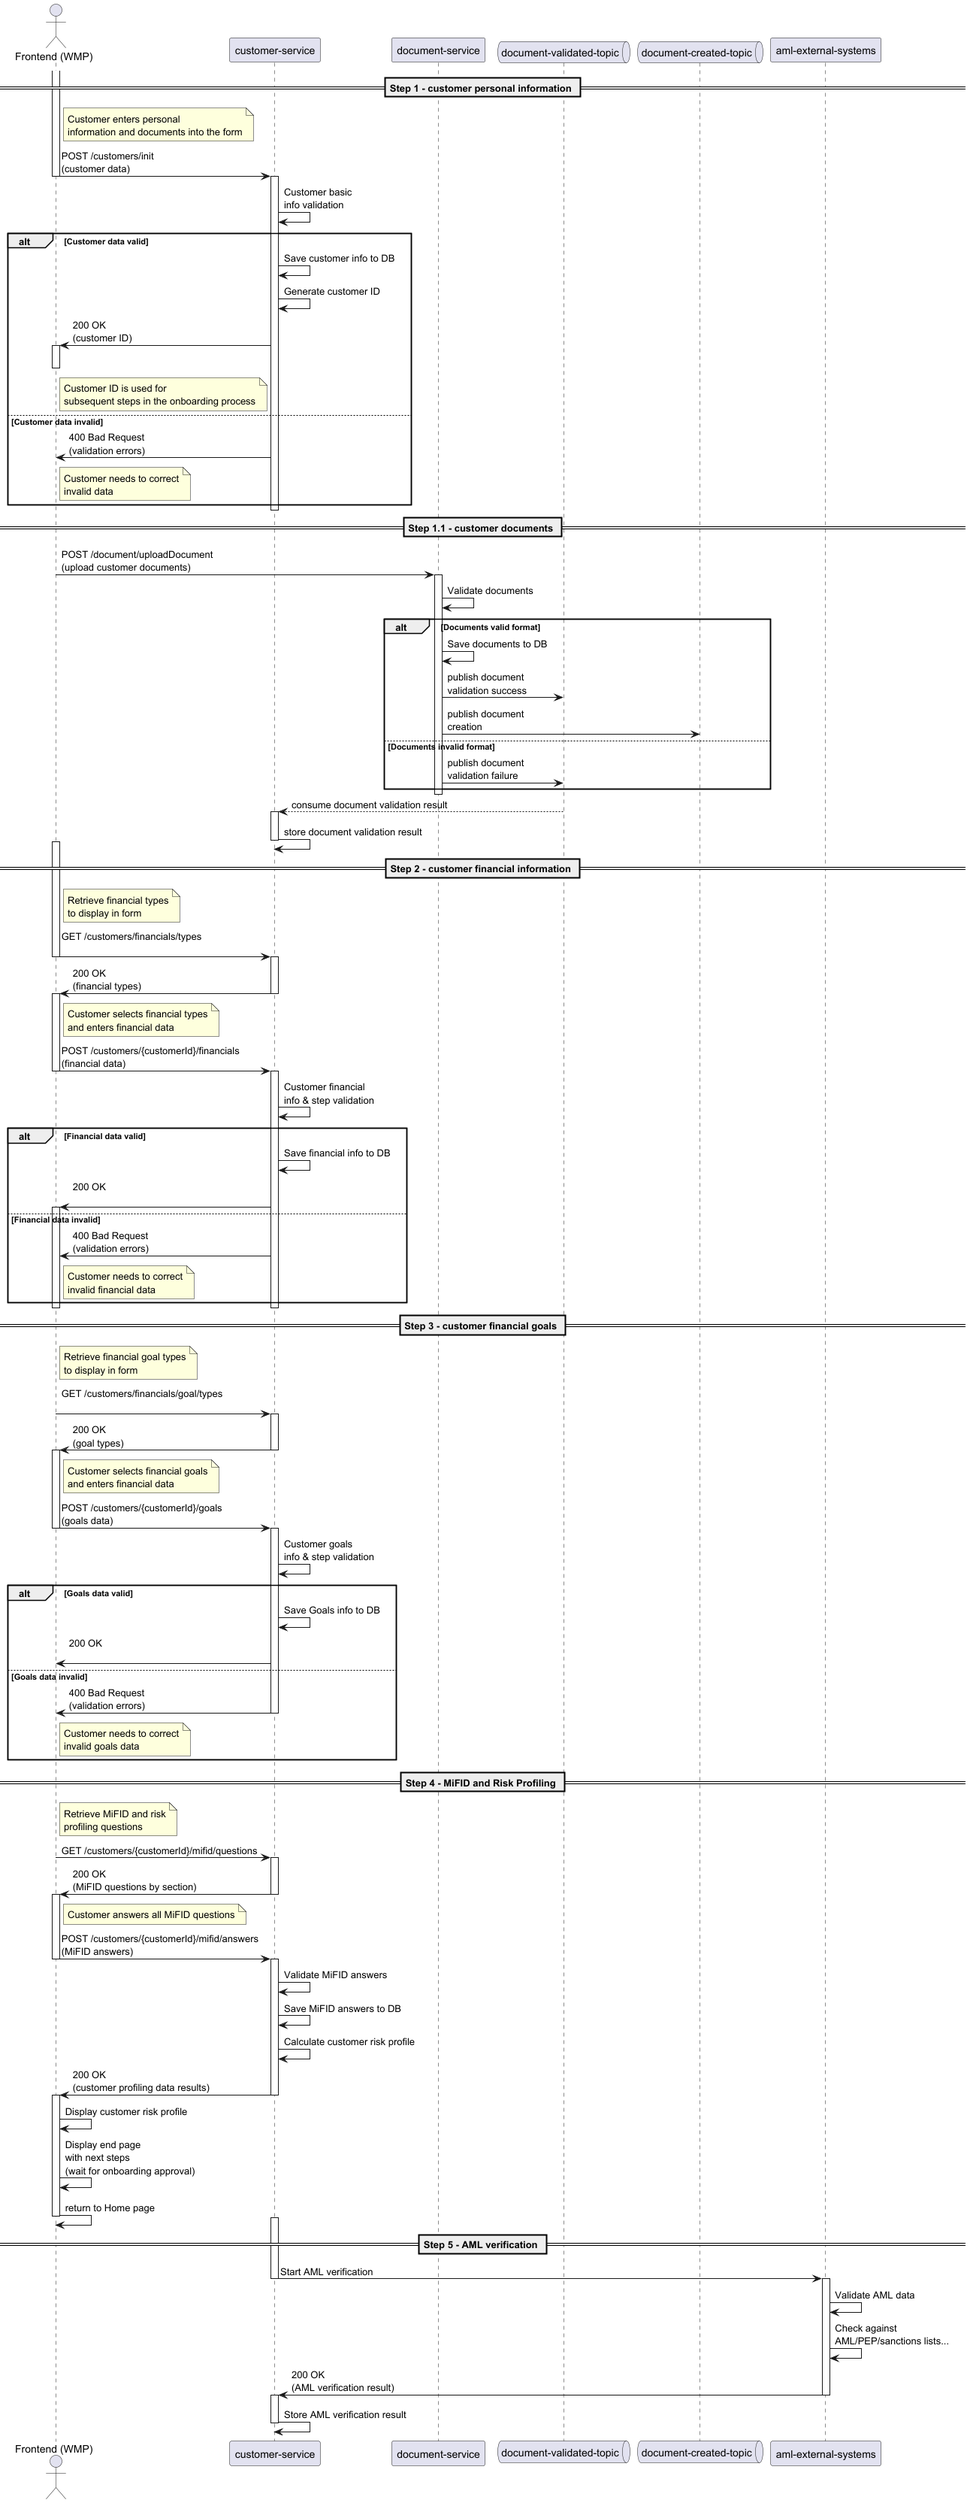
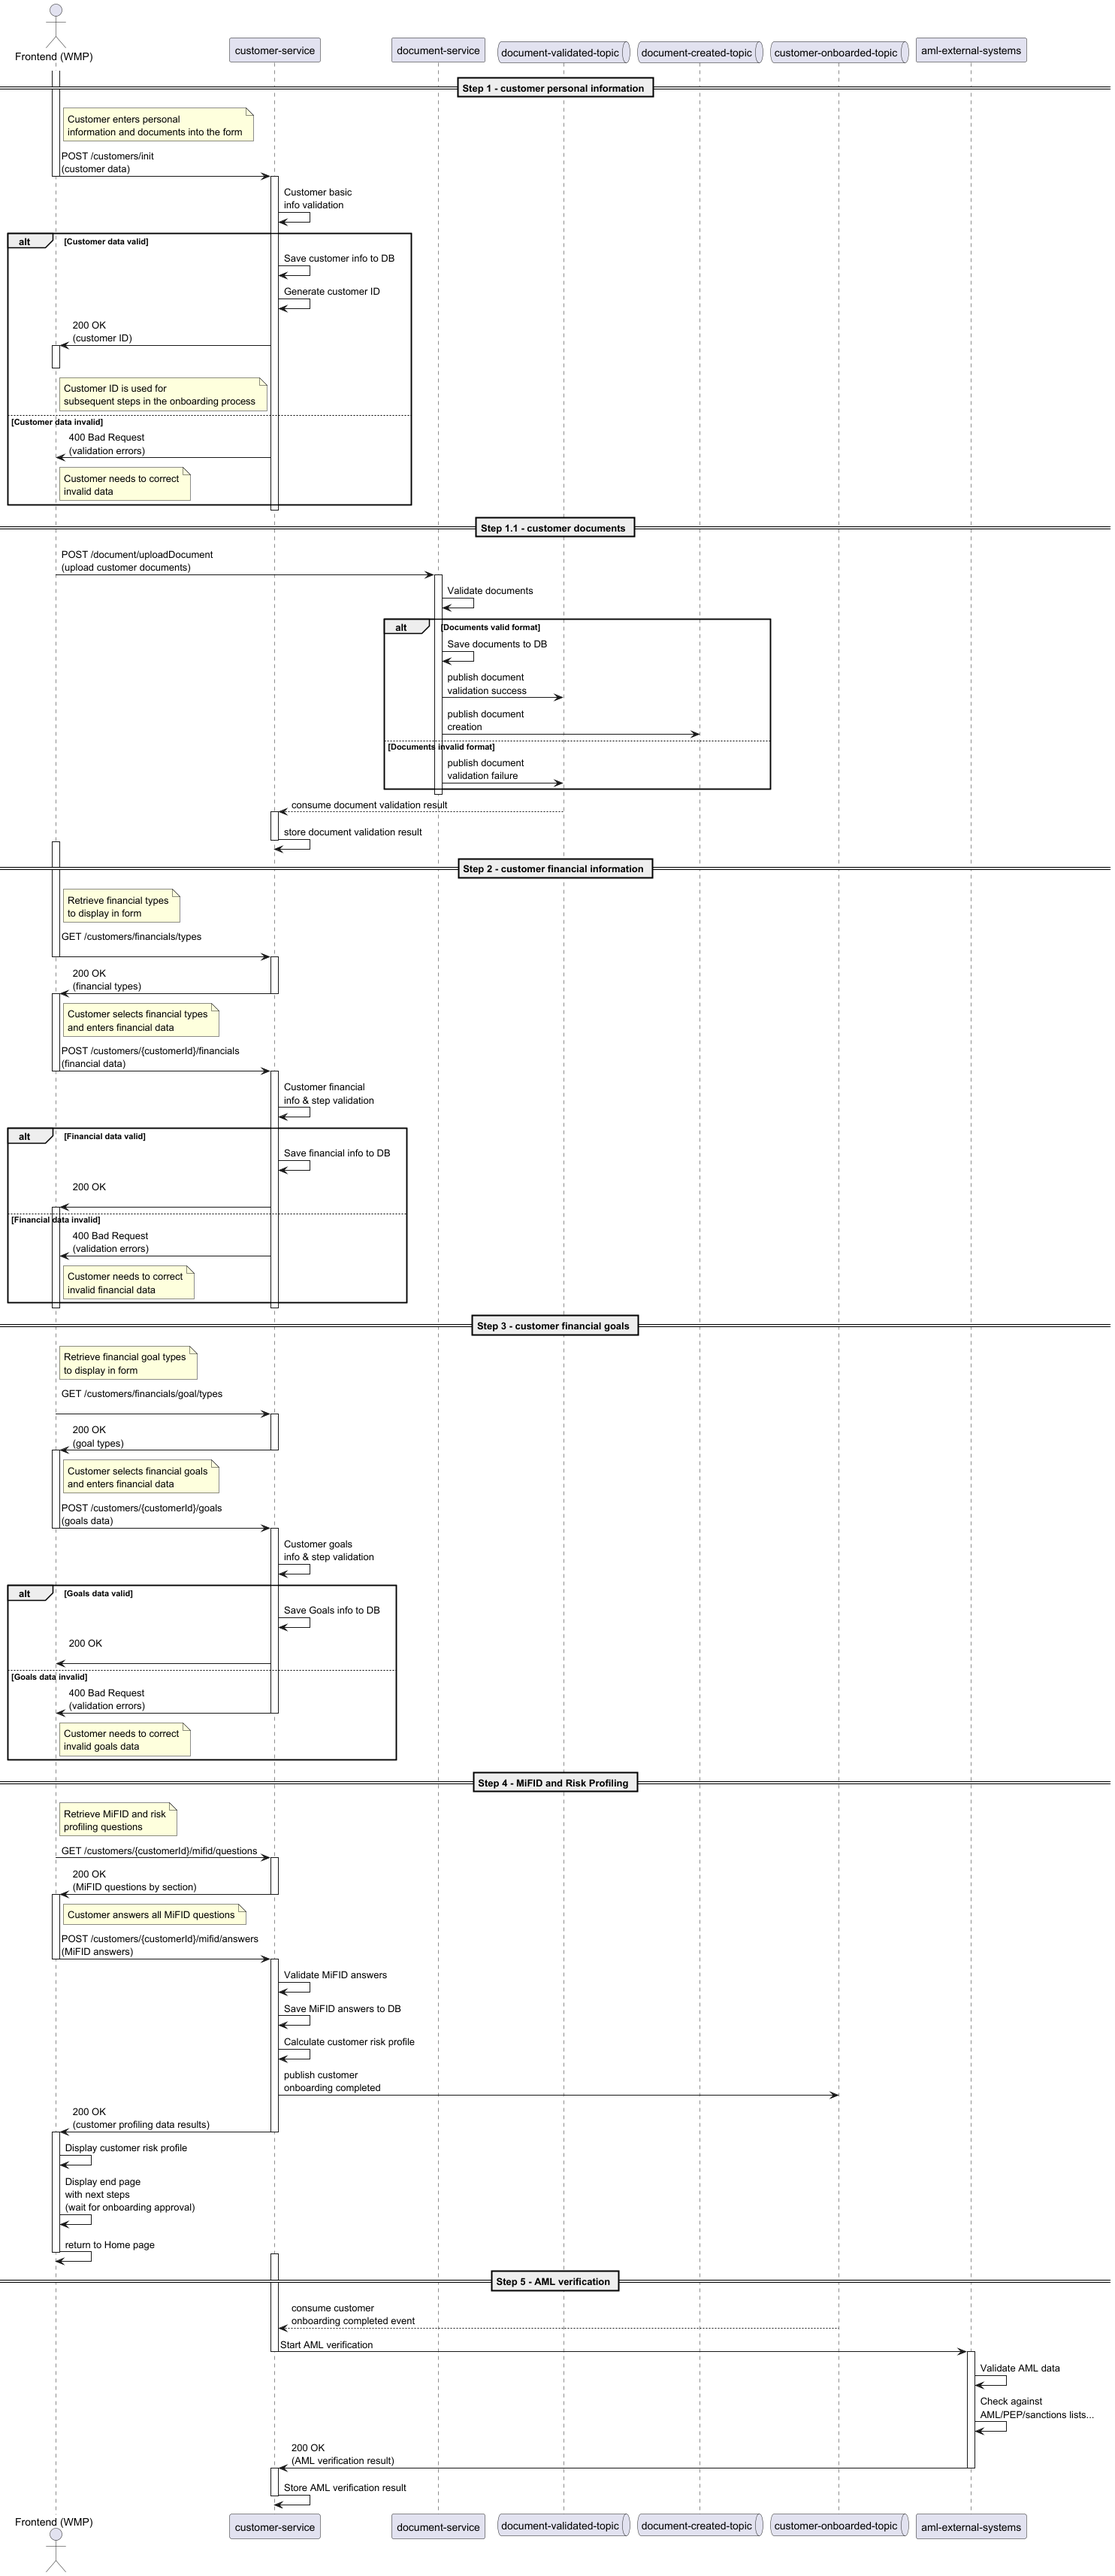
Updated AML step for customer onboarding process, implement customer onboarding event handling and related Kafka configurations, removed ConditionalOnProperty on publishers, update properties accordingly

diff --git a/business-modules/customer-service/customer-core/src/main/java/raff/stein/customer/service/mifid/workflow/impl/SubmitMifidWorkflow.java b/business-modules/customer-service/customer-core/src/main/java/raff/stein/customer/service/mifid/workflow/impl/SubmitMifidWorkflow.java
@@ -2,6 +2,7 @@ package raff.stein.customer.service.mifid.workflow.impl;
 
 import lombok.RequiredArgsConstructor;
 import org.springframework.stereotype.Component;
+import raff.stein.customer.event.producer.CustomerOnboardedEventPublisher;
 import raff.stein.customer.model.bo.mifid.filling.MifidFilling;
 import raff.stein.customer.model.entity.customer.enumeration.OnboardingStep;
 import raff.stein.customer.repository.mifid.MifidQuestionnaireRepository;
@@ -24,6 +25,7 @@ public class SubmitMifidWorkflow implements MifidWorkflow {
     private final SubmitMifidStateHandler submitMifidStateHandler;
     private final MifidQuestionnaireRepository mifidQuestionnaireRepository;
     private final OnboardingService onboardingService;
+    private final CustomerOnboardedEventPublisher customerOnboardedEventPublisher;
 
 
     @Override
@@ -50,8 +52,9 @@ public class SubmitMifidWorkflow implements MifidWorkflow {
     @Override
     public List<MifidWorkflowStep> postHooks() {
         return List.of(
-                calculateNextStatus(),
-                updateOnboardingStatus());
+                calculateNextStatus(),              // set and save status on MifidFilling
+                updateOnboardingStatus(),           // update onboarding step status
+                publishCustomerOnboardedEvent());
     }
 
 
@@ -102,6 +105,15 @@ public class SubmitMifidWorkflow implements MifidWorkflow {
                                     "mifidStatus", context.getResultBo().getStatus().name()
                             ))
                             .build());
+            return context;
+        };
+    }
+
+    private MifidWorkflowStep publishCustomerOnboardedEvent() {
+        return context -> {
+            customerOnboardedEventPublisher.publishCustomerOnboardedEvent(
+                    context.getResultBo(),
+                    context.getCustomerId());
             return context;
         };
     }

diff --git a/business-modules/customer-service/customer-core/src/main/java/raff/stein/customer/event/producer/CustomerOnboardedEventPublisher.java b/business-modules/customer-service/customer-core/src/main/java/raff/stein/customer/event/producer/CustomerOnboardedEventPublisher.java
@@ -1,0 +1,36 @@
+package raff.stein.customer.event.producer;
+
+import lombok.extern.slf4j.Slf4j;
+import org.openapitools.model.CustomerOnboardedEvent;
+import org.springframework.beans.factory.annotation.Value;
+import org.springframework.stereotype.Component;
+import raff.stein.customer.event.producer.mapper.MifidFillingToCustomerOnboardedMapper;
+import raff.stein.customer.model.bo.mifid.filling.MifidFilling;
+import raff.stein.platformcore.messaging.publisher.WMPBaseEventPublisher;
+import raff.stein.platformcore.messaging.publisher.model.EventData;
+
+import java.util.UUID;
+
+@Slf4j
+@Component
+public class CustomerOnboardedEventPublisher {
+
+    private final WMPBaseEventPublisher wmpBaseEventPublisher;
+    private final String customerOnboardedTopic;
+    private static final MifidFillingToCustomerOnboardedMapper documentToDocumentUploadedEventMapper = MifidFillingToCustomerOnboardedMapper.MAPPER;
+
+    public CustomerOnboardedEventPublisher(
+            WMPBaseEventPublisher wmpBaseEventPublisher,
+            @Value("${kafka.topics.customer-service.customer-onboarded.name}") String customerOnboardedTopic) {
+        this.wmpBaseEventPublisher = wmpBaseEventPublisher;
+        this.customerOnboardedTopic = customerOnboardedTopic;
+    }
+
+    public void publishCustomerOnboardedEvent(MifidFilling mifidFilling, UUID customerId) {
+        CustomerOnboardedEvent documentUploadedEvent =
+                documentToDocumentUploadedEventMapper.toCustomerOnboardedEvent(mifidFilling, customerId);
+        EventData eventData = new EventData(documentUploadedEvent);
+        wmpBaseEventPublisher.publishCloudEvent(customerOnboardedTopic, eventData);
+    }
+
+}

diff --git a/business-modules/customer-service/customer-core/src/main/java/raff/stein/customer/event/consumer/CustomerOnboardedEventConsumer.java b/business-modules/customer-service/customer-core/src/main/java/raff/stein/customer/event/consumer/CustomerOnboardedEventConsumer.java
@@ -1,0 +1,35 @@
+package raff.stein.customer.event.consumer;
+
+import io.cloudevents.CloudEvent;
+import lombok.RequiredArgsConstructor;
+import lombok.extern.slf4j.Slf4j;
+import org.openapitools.model.CustomerOnboardedEvent;
+import org.springframework.boot.autoconfigure.condition.ConditionalOnProperty;
+import org.springframework.kafka.annotation.KafkaListener;
+import org.springframework.stereotype.Component;
+import raff.stein.platformcore.messaging.consumer.WMPBaseEventConsumer;
+
+@Slf4j
+@Component
+@RequiredArgsConstructor
+@ConditionalOnProperty(name = "kafka.topics.customer-service.customer-onboarded.consuming-enabled", havingValue = "true")
+public class CustomerOnboardedEventConsumer extends WMPBaseEventConsumer {
+
+
+    @KafkaListener(
+            topics = "${kafka.topics.customer-service.customer-onboarded.name}",
+            containerFactory = "kafkaListenerFactory",
+            groupId = "${kafka.topics.customer-service.customer-onboarded.groupId}")
+    public void consume(CloudEvent cloudEvent) {
+        withEventPayload(
+                cloudEvent,
+                CustomerOnboardedEvent.class,
+                payload -> processFileValidatedEvent(payload, cloudEvent.getId()));
+    }
+
+    private void processFileValidatedEvent(CustomerOnboardedEvent customerOnboardedEvent, String eventId) {
+        // TODO: trigger AML verification
+
+    }
+
+}

diff --git a/business-modules/customer-service/customer-core/src/main/java/raff/stein/customer/event/consumer/FileValidatedEventConsumer.java b/business-modules/customer-service/customer-core/src/main/java/raff/stein/customer/event/consumer/FileValidatedEventConsumer.java
@@ -19,16 +19,16 @@ import java.util.UUID;
 @Slf4j
 @Component
 @RequiredArgsConstructor
-@ConditionalOnProperty(name = "kafka.topics.document-service.file-validated.enabled", havingValue = "true")
+@ConditionalOnProperty(name = "kafka.topics.customer-service.document.file-validated.enabled", havingValue = "true")
 public class FileValidatedEventConsumer extends WMPBaseEventConsumer {
 
     private final CustomerRepository customerRepository;
     private final OnboardingService onboardingService;
 
     @KafkaListener(
-            topics = "${kafka.topics.document-service.file-validated.name}",
+            topics = "${kafka.topics.customer-service.document.file-validated.name}",
             containerFactory = "kafkaListenerFactory",
-            groupId = "${kafka.topics.document-service.file-validated.groupId}")
+            groupId = "${kafka.topics.customer-service.document.file-validated.groupId}")
     public void consume(CloudEvent cloudEvent) {
         withEventPayload(
                 cloudEvent,

diff --git a/business-modules/customer-service/customer-core/src/main/java/raff/stein/customer/event/producer/mapper/MifidFillingToCustomerOnboardedMapper.java b/business-modules/customer-service/customer-core/src/main/java/raff/stein/customer/event/producer/mapper/MifidFillingToCustomerOnboardedMapper.java
@@ -1,0 +1,20 @@
+package raff.stein.customer.event.producer.mapper;
+
+import org.mapstruct.Mapper;
+import org.mapstruct.factory.Mappers;
+import org.openapitools.model.CustomerOnboardedEvent;
+import org.openapitools.model.DocumentUploadedEvent;
+import raff.stein.customer.event.mapper.config.CustomerEventMapperConfig;
+import raff.stein.customer.model.bo.mifid.filling.MifidFilling;
+
+import java.util.UUID;
+
+@Mapper(config = CustomerEventMapperConfig.class)
+public interface MifidFillingToCustomerOnboardedMapper {
+
+    MifidFillingToCustomerOnboardedMapper MAPPER = Mappers.getMapper(MifidFillingToCustomerOnboardedMapper.class);
+
+    CustomerOnboardedEvent toCustomerOnboardedEvent(MifidFilling mifidFilling, UUID customerId);
+
+    MifidFilling toMifidFilling(DocumentUploadedEvent documentUploadedEvent);
+}

diff --git a/business-modules/user-service/user-core/src/main/java/raff/stein/user/event/producer/UserCreatedEventPublisher.java b/business-modules/user-service/user-core/src/main/java/raff/stein/user/event/producer/UserCreatedEventPublisher.java
@@ -4,7 +4,6 @@ import jakarta.validation.constraints.NotNull;
 import lombok.extern.slf4j.Slf4j;
 import org.openapitools.model.UserCreatedEvent;
 import org.springframework.beans.factory.annotation.Value;
-import org.springframework.boot.autoconfigure.condition.ConditionalOnProperty;
 import org.springframework.stereotype.Component;
 import raff.stein.platformcore.messaging.publisher.WMPBaseEventPublisher;
 import raff.stein.platformcore.messaging.publisher.model.EventData;
@@ -13,7 +12,6 @@ import raff.stein.user.model.User;
 
 @Slf4j
 @Component
-@ConditionalOnProperty(name = "kafka.topics.user-service.user-created.enabled", havingValue = "true")
 public class UserCreatedEventPublisher {
 
     private final WMPBaseEventPublisher wmpBaseEventPublisher;

diff --git a/business-modules/document-service/document-core/src/main/java/raff/stein/document/event/producer/DocumentUploadedEventPublisher.java b/business-modules/document-service/document-core/src/main/java/raff/stein/document/event/producer/DocumentUploadedEventPublisher.java
@@ -2,7 +2,6 @@ package raff.stein.document.event.producer;
 
 import lombok.extern.slf4j.Slf4j;
 import org.springframework.beans.factory.annotation.Value;
-import org.springframework.boot.autoconfigure.condition.ConditionalOnProperty;
 import org.springframework.stereotype.Component;
 import raff.stein.document.event.producer.mapper.DocumentToDocumentUploadedEventMapper;
 import raff.stein.document.model.Document;
@@ -11,7 +10,6 @@ import raff.stein.platformcore.messaging.publisher.model.EventData;
 
 @Slf4j
 @Component
-@ConditionalOnProperty(name = "kafka.topics.document-service.document-uploaded.enabled", havingValue = "true")
 public class DocumentUploadedEventPublisher {
 
     private final WMPBaseEventPublisher wmpBaseEventPublisher;

diff --git a/business-modules/document-service/document-core/src/main/java/raff/stein/document/event/producer/FileValidatedEventPublisher.java b/business-modules/document-service/document-core/src/main/java/raff/stein/document/event/producer/FileValidatedEventPublisher.java
@@ -2,7 +2,6 @@ package raff.stein.document.event.producer;
 
 import lombok.extern.slf4j.Slf4j;
 import org.springframework.beans.factory.annotation.Value;
-import org.springframework.boot.autoconfigure.condition.ConditionalOnProperty;
 import org.springframework.stereotype.Component;
 import raff.stein.document.event.producer.mapper.FileToFileValidatedEventMapper;
 import raff.stein.document.model.File;
@@ -12,7 +11,6 @@ import raff.stein.platformcore.messaging.publisher.model.EventData;
 
 @Slf4j
 @Component
-@ConditionalOnProperty(name = "kafka.topics.document-service.file-validated.enabled", havingValue = "true")
 public class FileValidatedEventPublisher {
 
     private final WMPBaseEventPublisher wmpBaseEventPublisher;

diff --git a/business-modules/customer-service/customer-core/src/main/java/raff/stein/customer/service/mifid/command/impl/SubmitMifidCommand.java b/business-modules/customer-service/customer-core/src/main/java/raff/stein/customer/service/mifid/command/impl/SubmitMifidCommand.java
@@ -61,6 +61,8 @@ public class SubmitMifidCommand implements MifidCommand {
                         .profile(riskProfile)
                         .score(totalScore)
                         .build());
+        // 5. save customer risk profile
+        //TODO
         return mifidFilling;
     }
 }

diff --git a/business-modules/customer-service/customer-core/src/main/java/raff/stein/customer/event/mapper/config/CustomerEventMapperConfig.java b/business-modules/customer-service/customer-core/src/main/java/raff/stein/customer/event/mapper/config/CustomerEventMapperConfig.java
@@ -1,0 +1,8 @@
+package raff.stein.customer.event.mapper.config;
+
+import org.mapstruct.MapperConfig;
+import raff.stein.platformcore.model.mapper.configuration.CommonMapperConfiguration;
+
+@MapperConfig(uses = CommonMapperConfiguration.class)
+public interface CustomerEventMapperConfig {
+}

diff --git a/docs/domain/assets/onboarding/customer-onboarding/process/customer-onboarding-process-diagram.md b/docs/domain/assets/onboarding/customer-onboarding/process/customer-onboarding-process-diagram.md
@@ -4,6 +4,7 @@ participant "customer-service" as Customer
 participant "document-service" as Document
 queue "document-validated-topic" as documentValidationTopic
 queue "document-created-topic" as documentCreatedTopic
+queue "customer-onboarded-topic" as customerOnboardedTopic
 participant "aml-external-systems" as ExternalSystems
 
 
@@ -112,6 +113,7 @@ activate Customer
 Customer -> Customer: Validate MiFID answers
 Customer -> Customer: Save MiFID answers to DB
 Customer -> Customer: Calculate customer risk profile
+Customer -> customerOnboardedTopic: publish customer\nonboarding completed
 Customer -> FE: 200 OK\n(customer profiling data results)
 deactivate Customer
 activate FE
@@ -121,9 +123,9 @@ FE -> FE: return to Home page
 deactivate FE
 
 
-
 == Step 5 - AML verification ==
 activate Customer
+customerOnboardedTopic -->  Customer: consume customer\nonboarding completed event
 Customer -> ExternalSystems: Start AML verification
 deactivate Customer
 activate ExternalSystems
